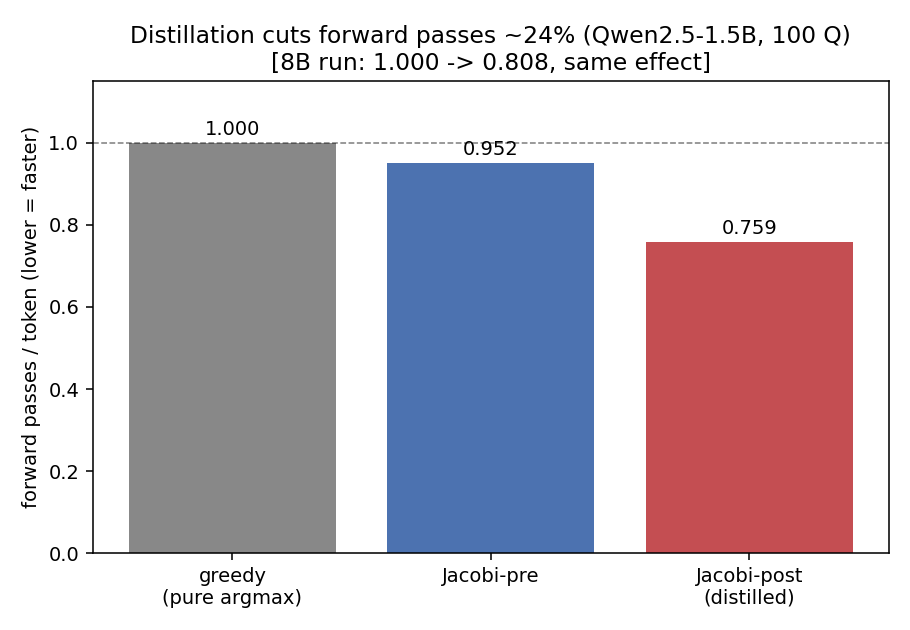
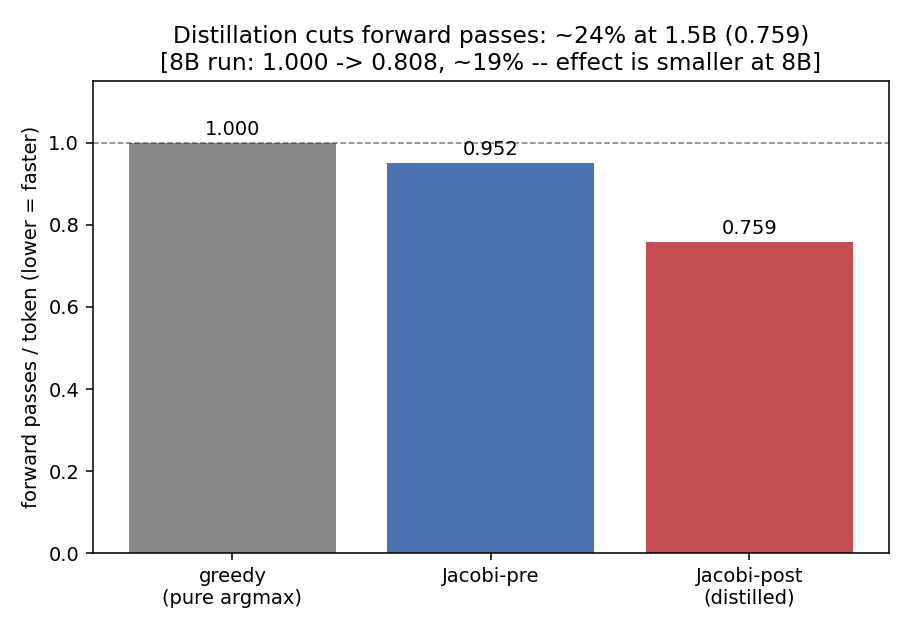
Tighten results precision: fp32-only "exact", per-scale reduction, wall-clock gap
- "exact" greedy-equivalence is fp32-only; fp16 matches to within drift (98.8%);
  fixed the §2 "greedy==Jacobi-pre exact" overstatement for the fp16 table.
- Report forward-pass reduction per scale: ~24% at 1.5B (0.759), ~19% at 8B (0.808);
  no single headline number.
- Note the 1.5B 0.759 is the MPS/100-Q/cached run; the old 0.816 was V100/200-Q/
  full-recompute -- a run-setup difference, not the repetition_penalty fix.
- Explain wall-clock 1.10x vs the ~1.32x the pass count implies: each Jacobi iter
  forwards a full n=16 block (~1.2x a single-token step), so wall-clock gain < pass
  reduction.
- 8B accuracy remains an open item (rep-penalty baseline, not yet redone pure-argmax).

Changed region(s): [[0.1538, 0.0302, 0.9231, 0.1206]]

diff --git a/cllm/results/make_plots.py b/cllm/results/make_plots.py
@@ -90,8 +90,8 @@ for b, v in zip(bars, fwd):
             ha="center", va="bottom", fontsize=10)
 ax.axhline(1.0, ls="--", c="k", lw=0.8, alpha=0.5)
 ax.set_ylim(0, 1.15); ax.set_ylabel("forward passes / token (lower = faster)")
-ax.set_title("Distillation cuts forward passes ~24% (Qwen2.5-1.5B, 100 Q)\n"
-             "[8B run: 1.000 -> 0.808, same effect]")
+ax.set_title("Distillation cuts forward passes: ~24% at 1.5B (0.759)\n"
+             "[8B run: 1.000 -> 0.808, ~19% -- effect is smaller at 8B]")
 fig.tight_layout(); fig.savefig(f"{OUT}/fwd_per_token.png", dpi=140); plt.close(fig)
 
 # ---- Plot 3: accuracy (corrected, SE bars) ---------------------------------

diff --git a/cllm/results/RESULTS.md b/cllm/results/RESULTS.md
@@ -6,12 +6,16 @@ Code: [`cllm/`](../).
 
 ## TL;DR
 
-1. **Jacobi decoding is provably greedy-equivalent** — 100% token-identical to pure
-   argmax in fp32 ([`plots/greedy_equivalence.png`](plots/greedy_equivalence.png)).
-2. **Consistency distillation cuts forward-passes-per-token ~24% at iso-accuracy**
-   (1.000 → 0.759 at 1.5B; 1.000 → 0.808 in the 8B run). Hardware-independent metric.
-3. **Wall-clock speedup is real but hardware-dependent**: 1.10× on M2/MPS vs pure
-   greedy; 1.54× on V100 vs HF `generate()`. Forward-pass reduction is the robust claim.
+1. **Jacobi decoding is greedy-equivalent** — 100% token-identical to pure argmax
+   **in fp32** ([`plots/greedy_equivalence.png`](plots/greedy_equivalence.png)); in
+   fp16 it matches to within small late-token drift (98.8% cached).
+2. **Consistency distillation cuts forward-passes-per-token at iso-accuracy** —
+   **~24% at 1.5B** (1.000 → 0.759) and **~19% at 8B** (1.000 → 0.808). The two scales
+   differ; both reported. Hardware-independent metric.
+3. **Wall-clock speedup is real but smaller than the pass-count implies and
+   hardware-dependent**: 1.10× on M2/MPS vs pure greedy (the 0.759 pass count alone
+   would suggest ~1.32× — see §3); 1.54× on V100 vs HF `generate()`. Forward-pass
+   reduction is the robust claim.
 
 ---
 
@@ -49,10 +53,16 @@ greedy's KV arithmetic) is closer than the full-recompute one. Plot:
 | Jacobi-pre | 37.0% | 0.952 | 22.76 |
 | **Jacobi-post (distilled)** | 37.0% | **0.759** | **27.24** |
 
-- **Iso-accuracy is now clean**: identical 37.0% across all three (greedy==Jacobi-pre
-  exact; distillation preserves it). Plots:
+- **Iso-accuracy is now clean**: identical 37.0% across all three. greedy==Jacobi-pre
+  is **exact in fp32**; in *this* fp16/MPS table they match to within fp16 drift
+  (98.8% token agreement, §1) — no answer changed on this 100-Q set — and distillation
+  preserves the 37.0%. Plots:
   [`plots/accuracy.png`](plots/accuracy.png), [`plots/fwd_per_token.png`](plots/fwd_per_token.png).
-- **~24% forward-pass reduction** post-distillation.
+- **~24% forward-pass reduction at 1.5B** (0.759); **~19% at 8B** (0.808) — see below.
+- *Run provenance:* this 0.759 is the corrected **MPS / 100-Q / cached-decoder** run.
+  The earlier **V100 / 200-Q / full-recompute** run reported 0.816 for the same step.
+  That difference is run setup (decoder, hardware, eval size) — **not** the
+  repetition_penalty fix, which only affected the *accuracy* baseline, not pass counts.
 - The 8B V100 run showed the same forward-pass effect (1.000 → 0.808); its *accuracy*
   comparison still uses the rep-penalty baseline and should be re-run pure-argmax on
   the box (the equivalence proof is code-identical, so it holds at 8B).
@@ -67,9 +77,16 @@ greedy's KV arithmetic) is closer than the full-recompute one. Plot:
 ## 3. Wall-clock
 
 Post-distillation cached Jacobi vs pure-argmax greedy: **1.10× on M2/MPS** (27.24 vs
-24.80 tok/s). The earlier V100 measurement showed **1.54×**, but against HF
-`generate()` (per-step Python overhead), so part of that margin was lean-loop-vs-
-`generate`. Plot: [`plots/wallclock_tokens_per_sec.png`](plots/wallclock_tokens_per_sec.png).
+24.80 tok/s). Plot: [`plots/wallclock_tokens_per_sec.png`](plots/wallclock_tokens_per_sec.png).
+
+**Why 1.10× and not ~1.32×:** the 0.759 forward-passes/token would imply ~1.32× *if
+every forward cost the same*. It doesn't — each Jacobi iteration forwards a whole
+n=16-token block, which costs more than a single greedy step (measured ~1.2× a
+single-token forward in this memory-bound regime). So the wall-clock gain
+(1.10×) is below the pass-count reduction (1.32×); the gap is exactly that
+per-iteration block cost. The earlier V100 measurement showed **1.54×**, but against
+HF `generate()` (per-step Python overhead), so part of that margin was
+lean-loop-vs-`generate`, not pure compute.
 
 - **Always `--merge-lora`** for inference: unmerged LoRA adds a per-forward matmul tax
   that erased the speedup (was 11.96 vs 25.46 tok/s on V100).
